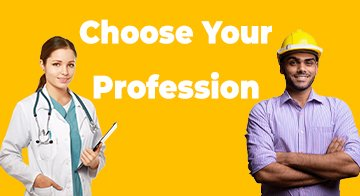
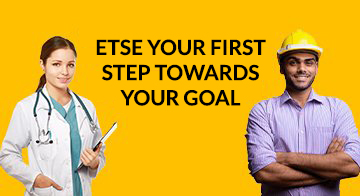
update index.php

diff --git a/index.php b/index.php
@@ -245,6 +245,8 @@
             animation-name: fadeInUp;
             transition: all ease 0.3s;
         }
+
+        .required:after { content:" *";color:red; }
     </style>
 
 </head>
@@ -446,7 +448,7 @@ else{
         <div class="container-fluid position-relative p-0 colors"
             style="margin-top: 80px;width: 100%;height:805px;background-color: #FFC000;">
             <div class="container p-0">
-                <h1 class="headertext" style="padding-top: 50px;">Choose Your Profession</h1>
+                <h1 class="headertext" style="padding-top: 50px;">ETSE YOUR FIRST STEP TOWARDS YOUR GOAL</h1>
                 <div class="container p-0" style="display: flex;margin-top: 30px;">
                     <div class="container-fluid" style="width: 33%;margin-top:149px;">
                         <img src="images\headerdocdesk.png" alt="/image1/" style="width: 344px;">
@@ -454,27 +456,27 @@ else{
                     <div class="container-fluid" style="width: 33%; padding: 0;margin-top: 35px;">
                        <form id="vectform"  method="post" enctype="multipart/form-data">
                             <div class="form-group">
-                                <label for="exampleFormControlInput1" class="formstyle">Name</label>
+                                <label for="exampleFormControlInput1" class="formstyle required">Name</label>
                                 <input type="text" class="form-control" id="name-desktop" name="name-desktop"
                                     placeholder="Name Of Applicant">
                             </div>
                             <div class="form-group">
-                                <label for="exampleFormControlInput3" class="formstyle">Phone</label>
+                                <label for="exampleFormControlInput3" class="formstyle required">Phone</label>
                                 <input type="tel" class="form-control" id="phone-desktop"  name="phone-desktop"
                                     placeholder="Phone">
                             </div>
                             <div class="form-group">
-                                <label for="exampleFormControlInput2" class="formstyle">Email address</label>
+                                <label for="exampleFormControlInput2" class="formstyle required">Email address</label>
                                 <input type="email" class="form-control" id="email-desktop" name="email-desktop"
                                     placeholder="name@example.com">
                             </div>
                             <div class="form-group">
-                                <label for="exampleFormControlInput4" class="formstyle">School</label>
+                                <label for="exampleFormControlInput4" class="formstyle required">School</label>
                                 <input type="text" class="form-control" id="school-desktop" name="school-desktop"
                                     placeholder="School Name">
                             </div>
                             <div class="form-group">
-                                <label for="exampleFormControlSelect1" class="formstyle">Current Class</label>
+                                <label for="exampleFormControlSelect1" class="formstyle required">Current Class</label>
                                 <select class="form-control" id="current-class-desktop" name="current-class-desktop">
                                     <option value="0">Select Class</option>
                                     <option>Class VIII</option>
@@ -483,7 +485,7 @@ else{
                                 </select>
                             </div>
                             <div class="form-group">
-                                <label for="exampleFormControlSelect2" class="formstyle">Location</label>
+                                <label for="exampleFormControlSelect2" class="formstyle required">Location</label>
                                 <input type="text" class="form-control" id="Location-desktop" name="Location-desktop"
                                     placeholder="Location">
                             </div>
@@ -1095,27 +1097,27 @@ else{
                 style="width: 80%;margin: 0 auto;background-color: #FFC000;margin-top: 20px;border-radius: 20px;padding: 30px;">
                 <form id="vectformmob"  method="post" enctype="multipart/form-data">
                     <div class="form-group">
-                        <label for="exampleFormControlInput2mob" class="formstyle">Name</label>
+                        <label for="exampleFormControlInput2mob" class="formstyle required">Name</label>
                         <input type="text" class="form-control" id="name-mob" name="name-mob"
                             placeholder="Name Of Applicant">
                     </div>
                     <div class="form-group">
-                        <label for="exampleFormControlInput3mob" class="formstyle">Phone</label>
+                        <label for="exampleFormControlInput3mob" class="formstyle required">Phone</label>
                         <input type="tel" class="form-control" id="phone-mob"  name="phone-mob"
                             placeholder="Phone">
                     </div>
                     <div class="form-group">
-                        <label for="exampleFormControlInput1mob" class="formstyle">Email address</label>
+                        <label for="exampleFormControlInput1mob" class="formstyle required">Email address</label>
                         <input type="email" class="form-control" id="email-mob" name="email-mob"
                             placeholder="name@example.com">
                     </div>
                     <div class="form-group">
-                        <label for="exampleFormControlInput4mob" class="formstyle">School</label>
+                        <label for="exampleFormControlInput4mob" class="formstyle required">School</label>
                         <input type="text" class="form-control" id="school-mob" name="school-mob"
                             placeholder="School Name">
                     </div>
                     <div class="form-group">
-                        <label for="exampleFormControlSelect1mob" class="formstyle">Current Class</label>
+                        <label for="exampleFormControlSelect1mob" class="formstyle required">Current Class</label>
                         <select class="form-control" id="current-class-mob" name="current-class-mob">
                             <option value="0">Select Class</option>
                             <option>Class VIII</option>
@@ -1124,7 +1126,7 @@ else{
                         </select>
                     </div>
                     <div class="form-group">
-                        <label for="exampleFormControlSelect2mob" class="formstyle">Location</label>
+                        <label for="exampleFormControlSelect2mob" class="formstyle required">Location</label>
                         <input type="text" class="form-control" id="Location-mob" name="Location-mob"
                             placeholder="Location">
                     </div>
